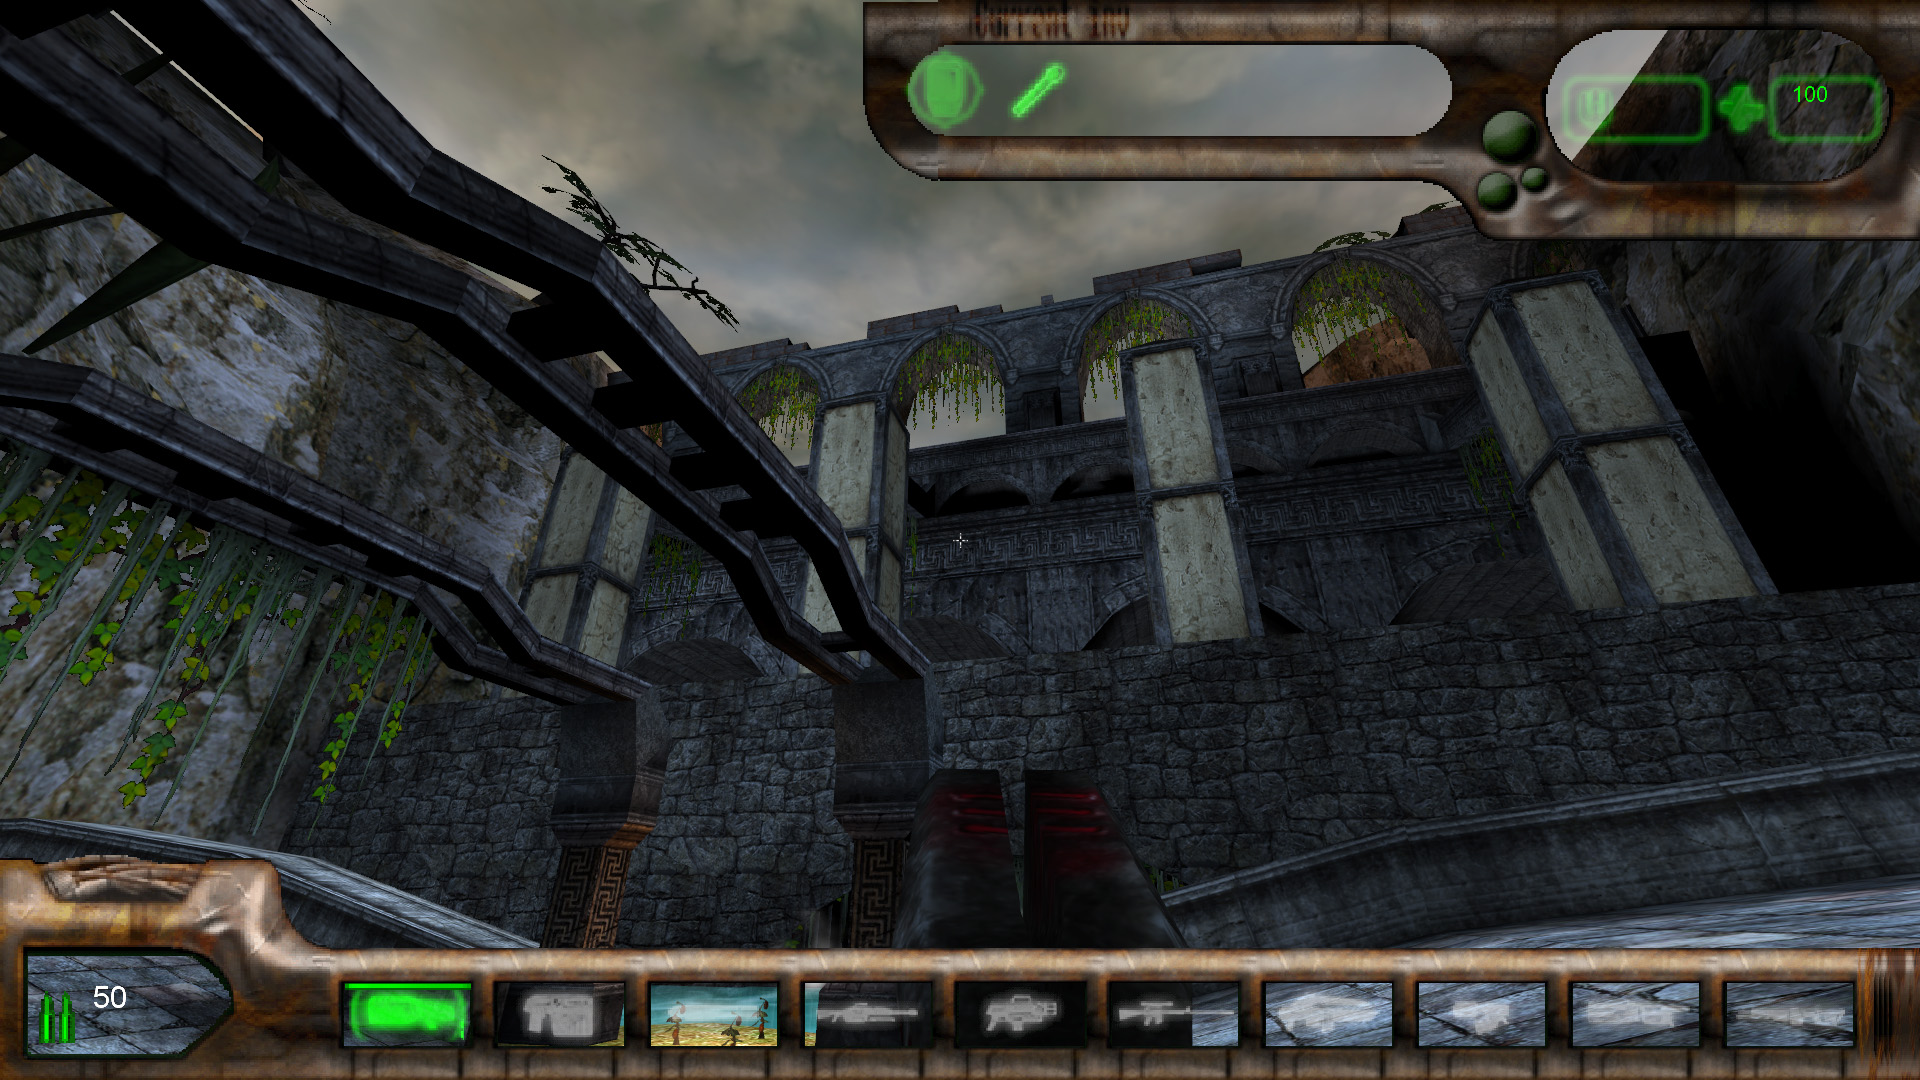
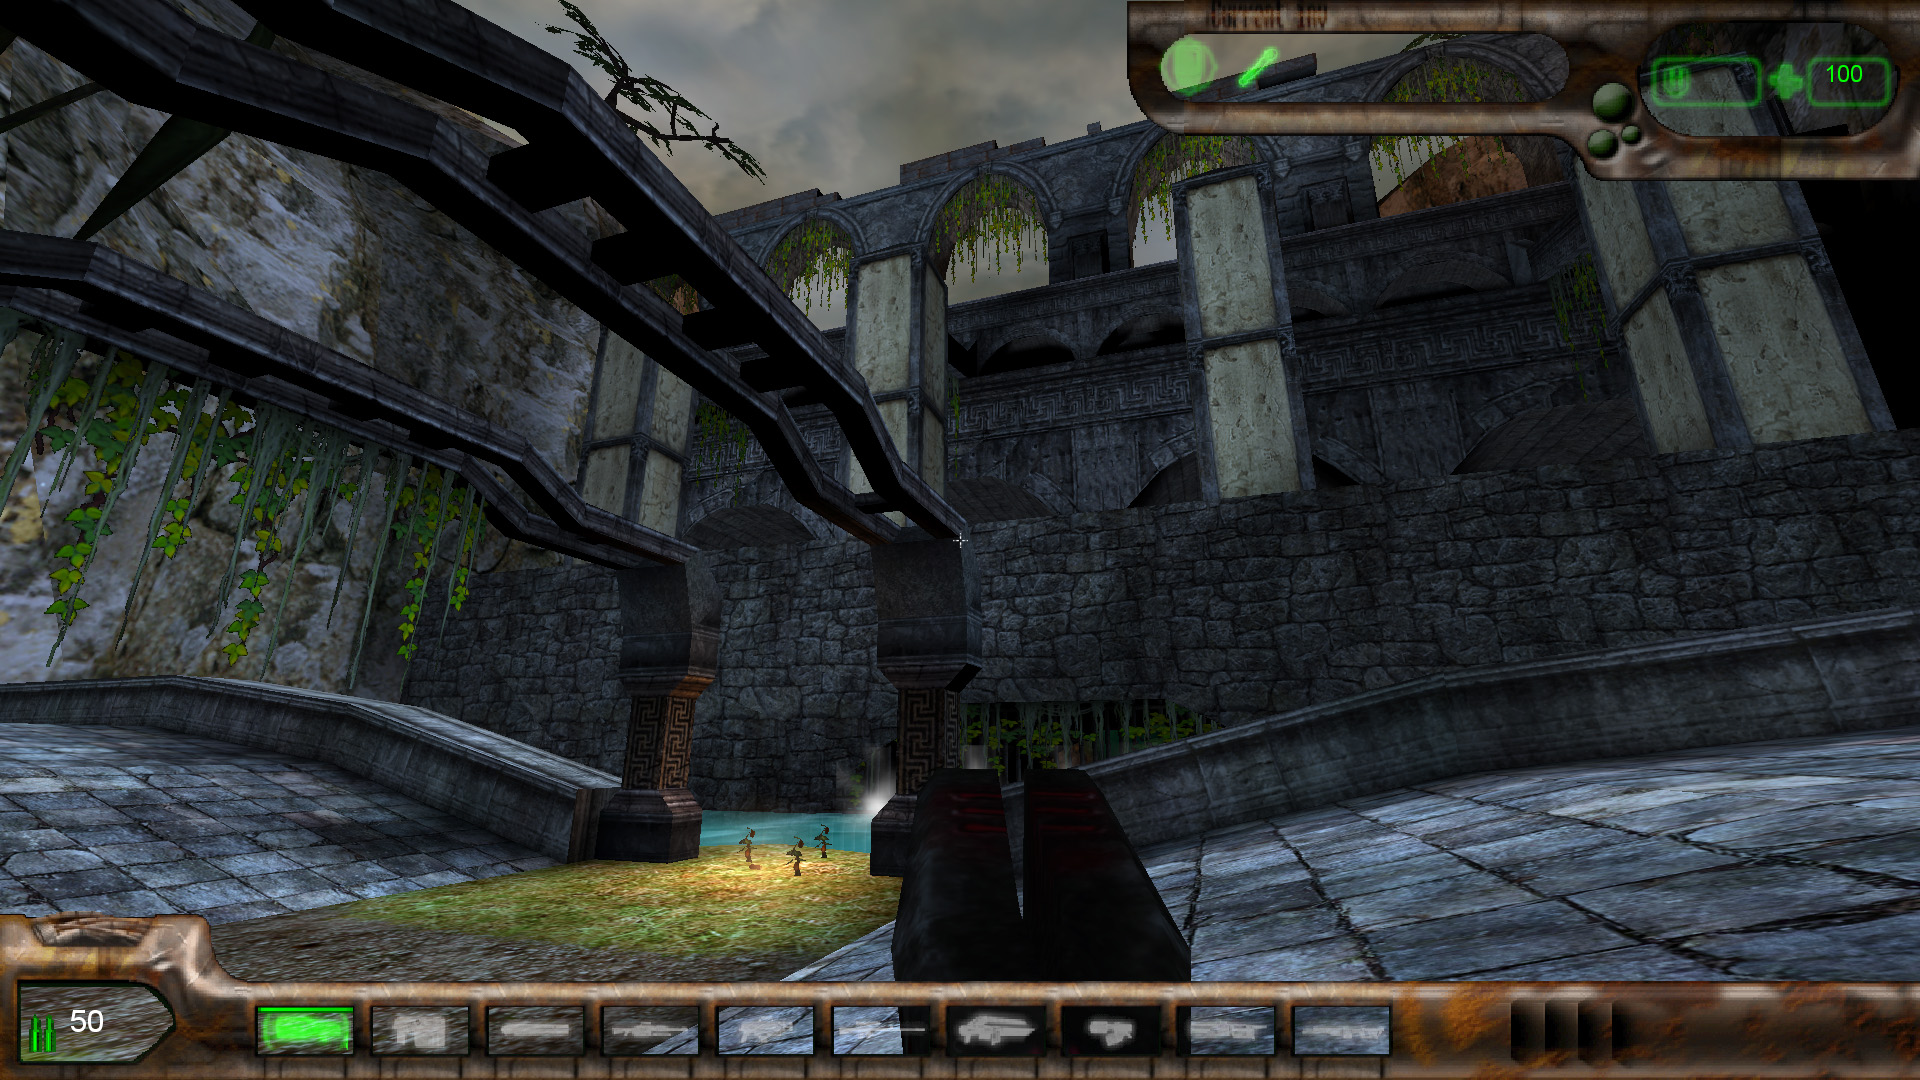
- Replaced some images with old HUD scaling method. - Added description of option B227_bMapFixMutator.

diff --git a/Botpack227-info.html b/Botpack227-info.html
@@ -526,6 +526,8 @@
         <dl>
           <dt>B227_bFixedBotCount <span class="value-type">(bool)</span> <span class="default-value">default: false</span></dt>
           <dd>- if true, the number of bots in a network game will not be auto-adjusted in relation to the number of real players.</dd>
+          <dt>B227_bMapFixMutator <span class="value-type">(bool)</span> <span class="default-value">default: true</span></dt>
+          <dd>- if true, mutator B227_MapFix.B227_MapFix will be added to the game (note: an attempt to add the mutator may fail if the corresponding package is not installed).</dd>
         </dl>
 
         <p>DMMutator:</p>
